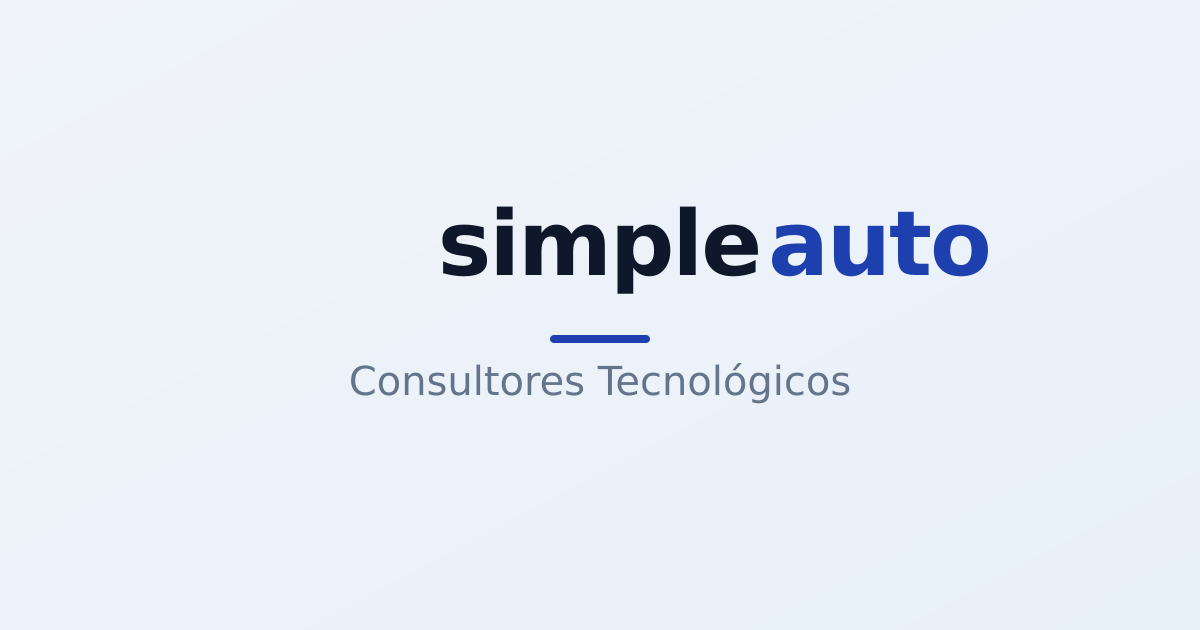
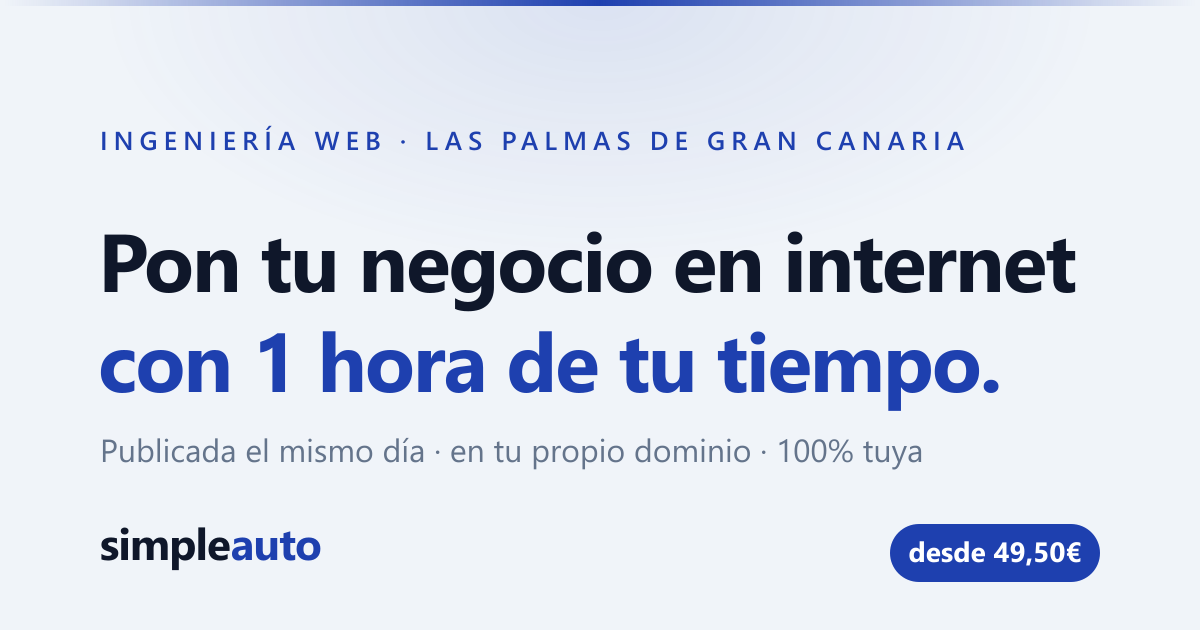
SEO audit

diff --git a/index.html b/index.html
@@ -3,13 +3,71 @@
 <head>
   <meta charset="UTF-8" />
   <meta name="viewport" content="width=device-width, initial-scale=1.0" />
-  <title>simpleauto · consultores tecnológicos</title>
-  <meta property="og:title" content="simpleauto · consultores tecnológicos" />
-  <meta property="og:description" content="Consultores tecnológicos especializados en soluciones innovadoras" />
-  <meta property="og:image" content="https://simpleauto.co/og-preview.png" />
+  <title>Página web para tu negocio en 1 hora | simpleauto · Las Palmas</title>
+  <meta name="description" content="Pon tu negocio en internet con 1 hora de tu tiempo. Web publicada el mismo día, en tu propio dominio y 100% tuya. Sin cuotas ni agencias. Ingeniería web en Las Palmas de Gran Canaria." />
+  <meta name="keywords" content="página web para negocio, crear web rápido, web mismo día, diseño web Las Palmas, página web Gran Canaria, web sin cuotas, recuperar dominio agencia" />
+  <meta name="author" content="simpleauto" />
+  <meta name="robots" content="index, follow, max-image-preview:large" />
+  <link rel="canonical" href="https://simpleauto.tech/" />
+  <meta name="geo.region" content="ES-GC" />
+  <meta name="geo.placename" content="Las Palmas de Gran Canaria" />
+  <meta property="og:title" content="Pon tu negocio en internet con 1 hora de tu tiempo | simpleauto" />
+  <meta property="og:description" content="Web publicada el mismo día, en tu propio dominio y 100% tuya. Sin cuotas ni contratos que atan. Ingeniería web en Las Palmas de Gran Canaria." />
+  <meta property="og:image" content="https://simpleauto.tech/og-preview.png" />
+  <meta property="og:url" content="https://simpleauto.tech/" />
   <meta property="og:type" content="website" />
+  <meta property="og:site_name" content="simpleauto" />
+  <meta property="og:locale" content="es_ES" />
+  <meta property="og:locale:alternate" content="en_US" />
   <meta name="twitter:card" content="summary_large_image" />
-  <meta name="twitter:image" content="https://simpleauto.co/og-preview.png" />
+  <meta name="twitter:title" content="Pon tu negocio en internet con 1 hora de tu tiempo | simpleauto" />
+  <meta name="twitter:description" content="Web publicada el mismo día, en tu propio dominio y 100% tuya. Sin cuotas ni agencias." />
+  <meta name="twitter:image" content="https://simpleauto.tech/og-preview.png" />
+  <script type="application/ld+json">
+  {
+    "@context": "https://schema.org",
+    "@type": "ProfessionalService",
+    "name": "simpleauto",
+    "description": "Ingeniería web para negocios: tu página web publicada el mismo día en una llamada de 1 hora, en tu propio dominio y 100% tuya, sin cuotas ni agencias.",
+    "url": "https://simpleauto.tech/",
+    "image": "https://simpleauto.tech/og-preview.png",
+    "telephone": "+34677028042",
+    "foundingDate": "2015",
+    "areaServed": [
+      { "@type": "City", "name": "Las Palmas de Gran Canaria" },
+      { "@type": "AdministrativeArea", "name": "Canarias" }
+    ],
+    "address": {
+      "@type": "PostalAddress",
+      "streetAddress": "C. Practicante Ignacio Rodríguez, Edificio Polivalente II, Oficina 209",
+      "addressLocality": "Las Palmas de Gran Canaria",
+      "addressRegion": "Las Palmas",
+      "postalCode": "35017",
+      "addressCountry": "ES"
+    },
+    "geo": {
+      "@type": "GeoCoordinates",
+      "latitude": 28.0791876,
+      "longitude": -15.4538161
+    },
+    "hasMap": "https://maps.app.goo.gl/UGoYU6PrfWXQBvTcA",
+    "priceRange": "€€",
+    "aggregateRating": {
+      "@type": "AggregateRating",
+      "ratingValue": "5.0",
+      "reviewCount": "4",
+      "bestRating": "5"
+    },
+    "makesOffer": {
+      "@type": "Offer",
+      "name": "Sesión privada · web publicada en una llamada de 1 hora",
+      "price": "49.50",
+      "priceCurrency": "EUR",
+      "priceValidUntil": "2026-08-01",
+      "availability": "https://schema.org/InStock"
+    }
+  }
+  </script>
   <link rel="icon" type="image/svg+xml" href="favicon.svg" />
   <link rel="icon" type="image/png" sizes="512x512" href="favicon-512x512.png" />
   <link rel="icon" type="image/png" sizes="256x256" href="favicon.png" />
@@ -625,8 +683,8 @@
 <!-- 1 · HOOK -->
 <section class="hero">
   <div class="hero-kicker reveal">
-    <span data-lang="en">one 1-hour call · everything delivered</span>
-    <span data-lang="es">una llamada de 1 hora · todo entregado</span>
+    <span data-lang="en">web engineering · Las Palmas de Gran Canaria</span>
+    <span data-lang="es">ingeniería web · Las Palmas de Gran Canaria</span>
   </div>
   <h1 class="headline reveal">
     <span class="solid">
@@ -641,8 +699,8 @@
   </h1>
 
   <p class="subheadline reveal">
-    <span data-lang="en">One call: you approve the demo and get your passwords.</span>
-    <span data-lang="es">Una llamada: apruebas la demo y recibes tus contraseñas.</span>
+    <span data-lang="en">Approve the demo, get your passwords, and your site goes live the same day.</span>
+    <span data-lang="es">Apruebas la demo, recibes tus contraseñas y tu web se publica el mismo día.</span>
   </p>
 
   <div class="hero-ctas reveal">

diff --git a/details.html b/details.html
@@ -3,13 +3,69 @@
 <head>
   <meta charset="UTF-8" />
   <meta name="viewport" content="width=device-width, initial-scale=1.0" />
-  <title>simpleauto · cómo funciona</title>
-  <meta property="og:title" content="simpleauto · consultores tecnológicos" />
-  <meta property="og:description" content="Consultores tecnológicos especializados en soluciones innovadoras" />
-  <meta property="og:image" content="https://simpleauto.co/og-preview.png" />
+  <title>Cómo funciona: tu web en una llamada de 1 hora | simpleauto</title>
+  <meta name="description" content="Apruebas la demo, recibes tus contraseñas y tu web queda publicada el mismo día. Un solo pago de 49,50€, sin suscripciones. Publicada o te devolvemos el dinero." />
+  <meta name="keywords" content="cómo crear una página web, web en un día, precio página web negocio, web sin suscripción, garantía web publicada, Las Palmas de Gran Canaria" />
+  <meta name="author" content="simpleauto" />
+  <meta name="robots" content="index, follow, max-image-preview:large" />
+  <link rel="canonical" href="https://simpleauto.tech/details.html" />
+  <meta name="geo.region" content="ES-GC" />
+  <meta name="geo.placename" content="Las Palmas de Gran Canaria" />
+  <meta property="og:title" content="Tu web entregada en una llamada de 1 hora | simpleauto" />
+  <meta property="og:description" content="Apruebas la demo, recibes tus contraseñas y tu web queda publicada el mismo día. Un solo pago, sin suscripciones. Publicada o te devolvemos el dinero." />
+  <meta property="og:image" content="https://simpleauto.tech/og-preview.png" />
+  <meta property="og:url" content="https://simpleauto.tech/details.html" />
   <meta property="og:type" content="website" />
+  <meta property="og:site_name" content="simpleauto" />
+  <meta property="og:locale" content="es_ES" />
+  <meta property="og:locale:alternate" content="en_US" />
   <meta name="twitter:card" content="summary_large_image" />
-  <meta name="twitter:image" content="https://simpleauto.co/og-preview.png" />
+  <meta name="twitter:title" content="Tu web entregada en una llamada de 1 hora | simpleauto" />
+  <meta name="twitter:description" content="Publicada el mismo día. Un solo pago de 49,50€, sin suscripciones. Publicada o te devolvemos el dinero." />
+  <meta name="twitter:image" content="https://simpleauto.tech/og-preview.png" />
+  <script type="application/ld+json">
+  {
+    "@context": "https://schema.org",
+    "@type": "FAQPage",
+    "mainEntity": [
+      {
+        "@type": "Question",
+        "name": "¿Y si no me gusta el diseño?",
+        "acceptedAnswer": { "@type": "Answer", "text": "Nada se publica sin tu aprobación. Ajustamos la demo en la llamada hasta que te convenza." }
+      },
+      {
+        "@type": "Question",
+        "name": "¿Necesito conocimientos técnicos?",
+        "acceptedAnswer": { "@type": "Answer", "text": "Ninguno. Apruebas una demo y recibes tus contraseñas. Editar después no requiere programar." }
+      },
+      {
+        "@type": "Question",
+        "name": "Tras publicar, ¿el sitio y el dominio son míos del todo?",
+        "acceptedAnswer": { "@type": "Answer", "text": "Sí. Sitio, dominio y herramientas son tuyos para siempre. El mantenimiento es opcional." }
+      },
+      {
+        "@type": "Question",
+        "name": "¿Cuánto tarda de verdad, de principio a fin?",
+        "acceptedAnswer": { "@type": "Answer", "text": "Una hora de tu tiempo. En línea el mismo día." }
+      },
+      {
+        "@type": "Question",
+        "name": "¿Qué incluye el precio y qué cuesta aparte?",
+        "acceptedAnswer": { "@type": "Answer", "text": "Todo en un pago: llamada, sitio, textos, contraseñas, formulario, herramientas y grabación. Lo único aparte: tu dominio, unos 20€/año al registrador. El alojamiento es gratis." }
+      },
+      {
+        "@type": "Question",
+        "name": "Ya tengo web, pero la controla una agencia. ¿Podéis liberarme?",
+        "acceptedAnswer": { "@type": "Answer", "text": "Sí. Recuperamos tu dominio y tus claves, reconstruimos lo que necesites, y nos vamos. Nos llamas solo cuando nos necesites." }
+      },
+      {
+        "@type": "Question",
+        "name": "¿Y si no tengo logo, fotos o textos?",
+        "acceptedAnswer": { "@type": "Answer", "text": "Trae lo que tengas. Nosotros escribimos, tú apruebas." }
+      }
+    ]
+  }
+  </script>
   <link rel="icon" type="image/svg+xml" href="favicon.svg" />
   <link rel="icon" type="image/png" sizes="512x512" href="favicon-512x512.png" />
   <link rel="icon" type="image/png" sizes="256x256" href="favicon.png" />

diff --git a/booking.html b/booking.html
@@ -3,13 +3,21 @@
 <head>
   <meta charset="UTF-8" />
   <meta name="viewport" content="width=device-width, initial-scale=1.0" />
-  <title>simpleauto · reserva tu sesión</title>
-  <meta property="og:title" content="simpleauto · consultores tecnológicos" />
-  <meta property="og:description" content="Consultores tecnológicos especializados en soluciones innovadoras" />
-  <meta property="og:image" content="https://simpleauto.co/og-preview.png" />
+  <title>Reserva tu sesión · tu web publicada el mismo día | simpleauto</title>
+  <meta name="description" content="Elige tu fecha y reserva la sesión privada de simpleauto. Tu página web publicada el mismo día por 49,50€, un solo pago y sin suscripciones." />
+  <meta name="robots" content="index, follow" />
+  <link rel="canonical" href="https://simpleauto.tech/booking.html" />
+  <meta name="geo.region" content="ES-GC" />
+  <meta name="geo.placename" content="Las Palmas de Gran Canaria" />
+  <meta property="og:title" content="Reserva tu sesión · tu web publicada el mismo día | simpleauto" />
+  <meta property="og:description" content="Elige tu fecha y reserva la sesión privada. Tu web publicada el mismo día, un solo pago, sin suscripciones." />
+  <meta property="og:image" content="https://simpleauto.tech/og-preview.png" />
+  <meta property="og:url" content="https://simpleauto.tech/booking.html" />
   <meta property="og:type" content="website" />
+  <meta property="og:site_name" content="simpleauto" />
+  <meta property="og:locale" content="es_ES" />
   <meta name="twitter:card" content="summary_large_image" />
-  <meta name="twitter:image" content="https://simpleauto.co/og-preview.png" />
+  <meta name="twitter:image" content="https://simpleauto.tech/og-preview.png" />
   <link rel="icon" type="image/svg+xml" href="favicon.svg" />
   <link rel="icon" type="image/png" sizes="512x512" href="favicon-512x512.png" />
   <link rel="icon" type="image/png" sizes="256x256" href="favicon.png" />

diff --git a/sa-footer.js b/sa-footer.js
@@ -3,7 +3,7 @@
     '<div class="footer-inner">' +
       '<div class="footer-nap">' +
         '<div class="footer-brand"><span class="logo-simple">simple</span><span class="logo-auto">auto</span></div>' +
-        '<div><span data-lang="en">Trusted technology consultants helping businesses since 2015.</span><span data-lang="es">Consultores tecnológicos de confianza ayudando a negocios desde 2015.</span></div>' +
+        '<div><span data-lang="en">Web engineering for businesses in Las Palmas de Gran Canaria since 2015.</span><span data-lang="es">Ingeniería web para negocios en Las Palmas de Gran Canaria desde 2015.</span></div>' +
         '<div><a href="tel:+34677028042">+34 677 028 042</a></div>' +
         '<div>C. Practicante Ignacio Rodríguez, Edificio Polivalente II,<br>Oficina 209, 35017 Las Palmas de Gran Canaria, Las Palmas</div>' +
         '<div style="margin-top:1rem;font-size:0.95rem;"><a href="privacy.html" style="color:var(--muted);text-decoration:none;border-bottom:1px solid var(--muted);" onmouseover="this.style.opacity=\'0.75\'" onmouseout="this.style.opacity=\'1\'"><span data-lang="en">Privacy Policy</span><span data-lang="es">Política de Privacidad</span></a></div>' +

diff --git a/privacy.html b/privacy.html
@@ -4,9 +4,11 @@
   <meta charset="UTF-8" />
   <meta name="viewport" content="width=device-width, initial-scale=1.0" />
   <title>simpleauto · política de privacidad</title>
+  <meta name="robots" content="noindex, follow" />
+  <link rel="canonical" href="https://simpleauto.tech/privacy.html" />
   <meta property="og:title" content="simpleauto · política de privacidad" />
   <meta property="og:description" content="Política de privacidad y tratamiento de datos" />
-  <meta property="og:image" content="https://simpleauto.co/og-preview.png" />
+  <meta property="og:image" content="https://simpleauto.tech/og-preview.png" />
   <meta property="og:type" content="website" />
   <meta name="twitter:card" content="summary" />
   <link rel="icon" type="image/svg+xml" href="favicon.svg" />
